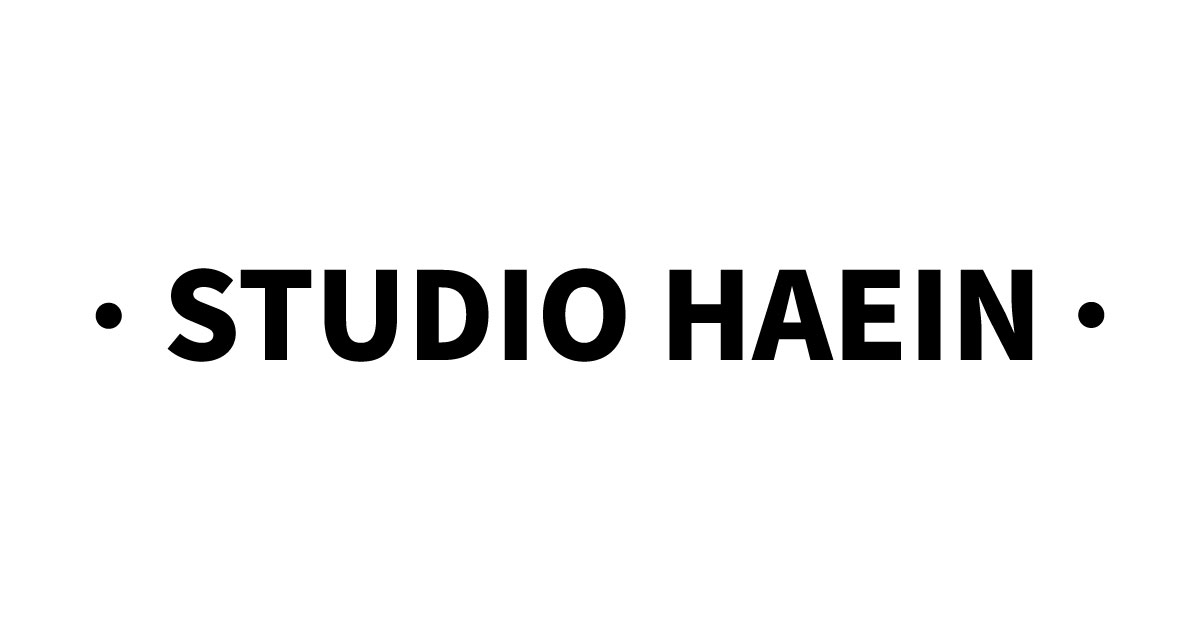
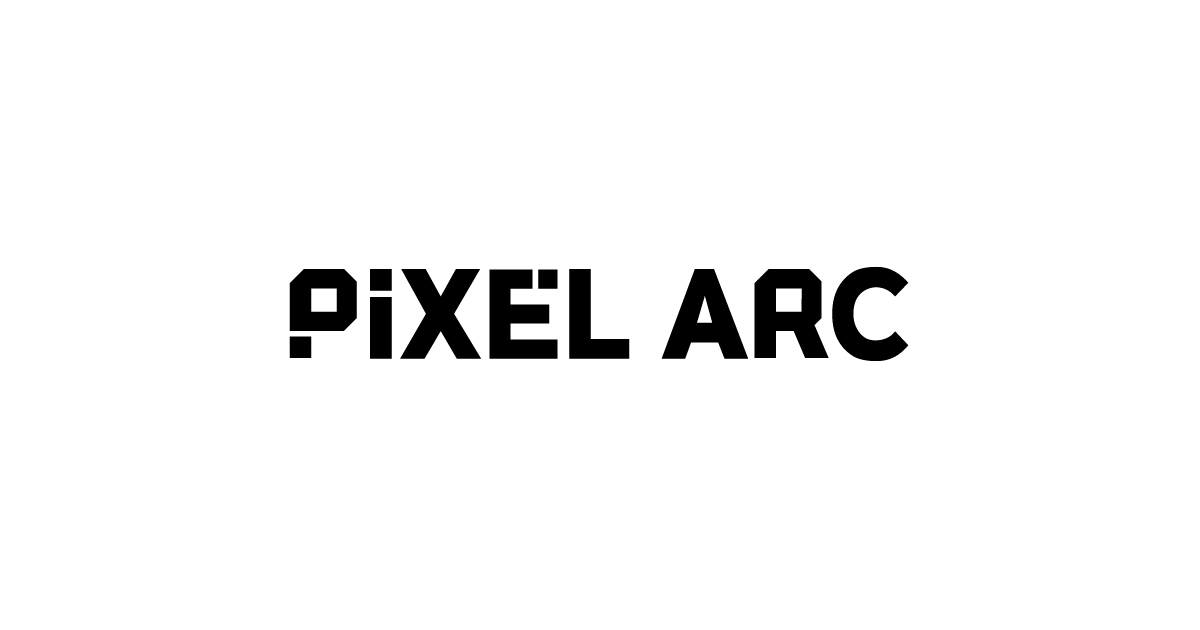
3.01.1

Changed region(s): [[0.0617, 0.4222, 0.5242, 0.573], [0.555, 0.4222, 0.8633, 0.573], [0.8942, 0.4825, 0.925, 0.5429]]

diff --git a/index.html b/index.html
@@ -5,15 +5,15 @@
   <title>픽셀아크</title>
 
   <!-- 링크 카드  -->
-  <meta property="og:title" content="Haein's Portfolio" />
-  <meta property="og:description" content="문해인의 포트폴리오 스튜디오" />
-  <meta property="og:image" content="https://studiohaein.com/image/main.jpg" />
-  <meta property="og:url" content="https://studiohaein.com" />
+  <meta property="og:title" content="픽셀아크" />
+  <meta property="og:description" content="픽셀아크 공식 홈페이지" />
+  <meta property="og:image" content="https://pixelarc.kr/image/main.jpg" />
+  <meta property="og:url" content="https://pixelarc.kr" />
   <meta property="og:type" content="website" />
 
   <!-- 트위터 카드 (카카오 일부 적용됨) -->
   <meta name="twitter:card" content="summary_large_image">
-  <meta name="twitter:image" content="https://studiohaein.com/image/main.jpg">
+  <meta name="twitter:image" content="https://pixelarc.kr/image/main.jpg">
 
   <meta name="viewport" content="width=device-width, initial-scale=1.0" />
   <link rel="stylesheet" href="css/style.css" />
